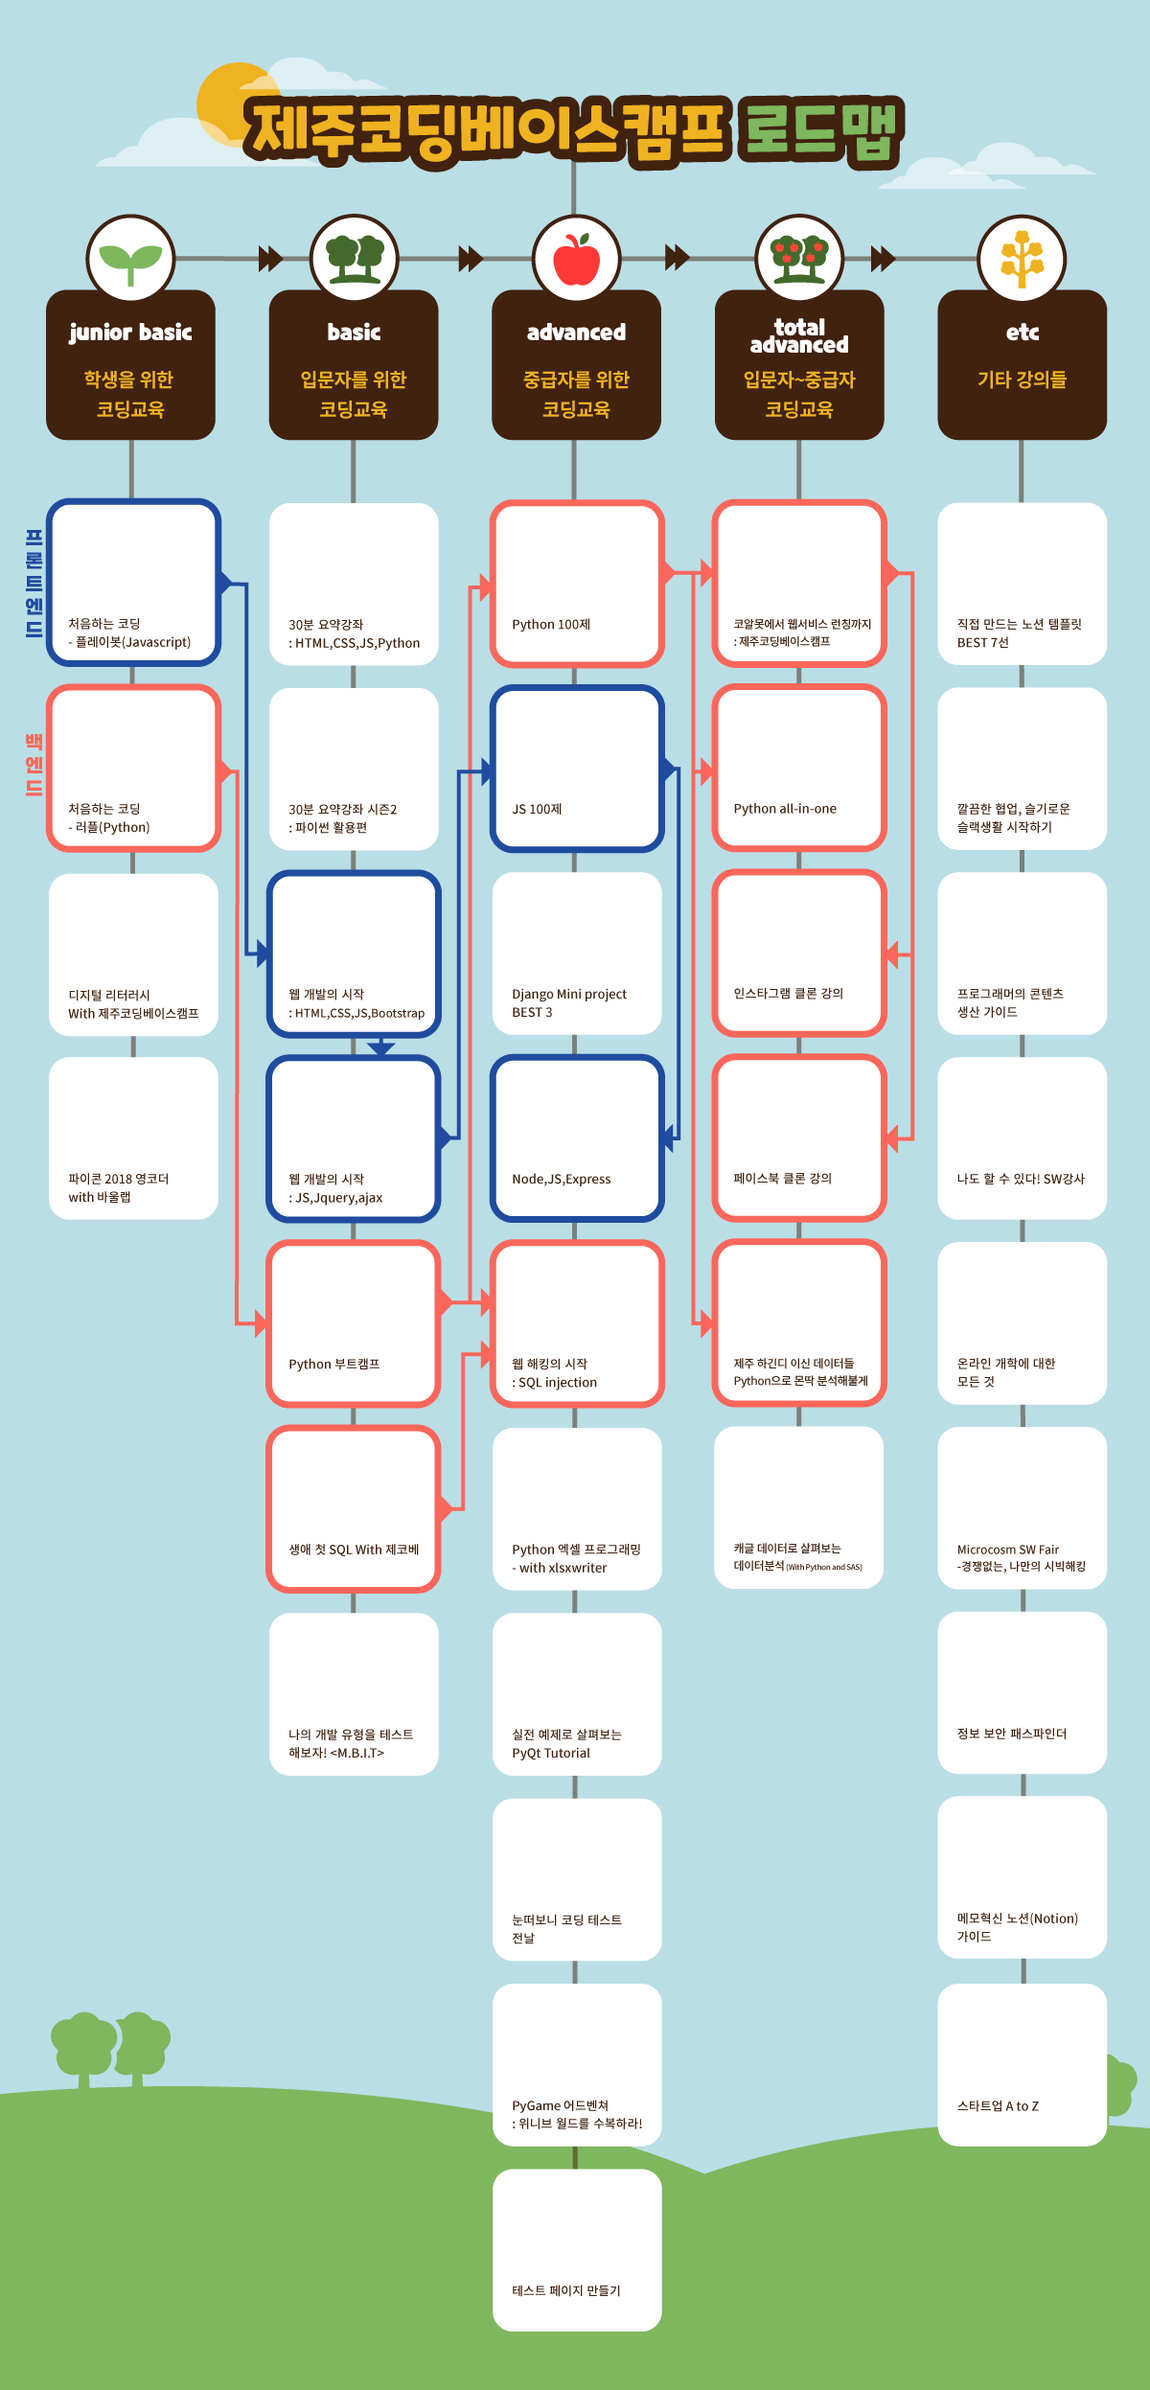
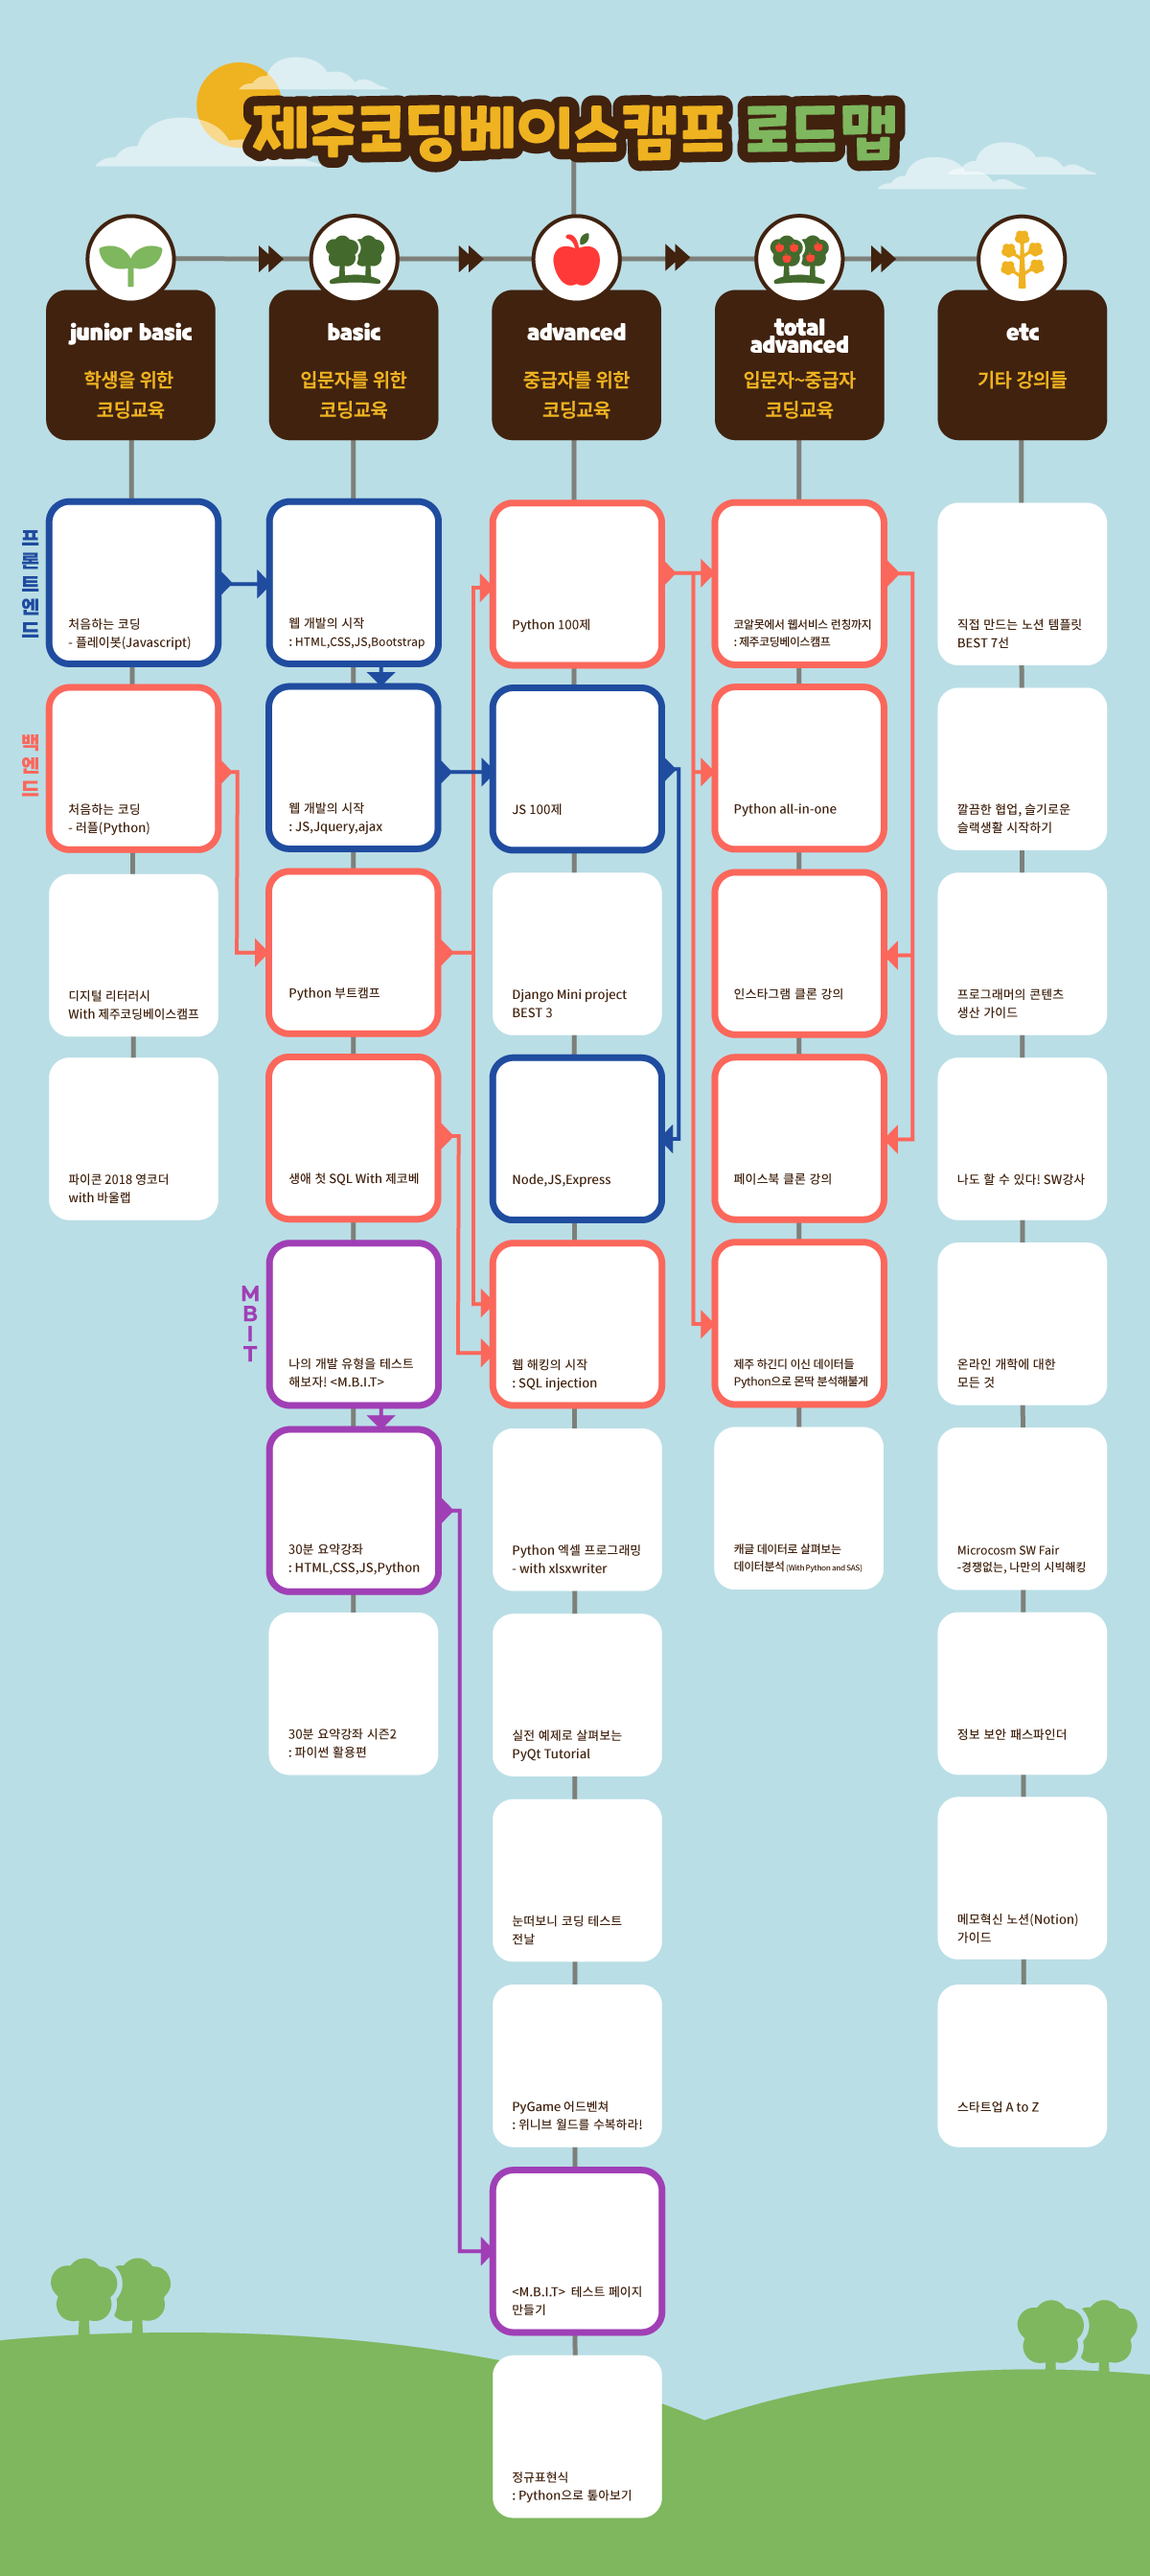
커리큘럼 이미지 수정 등

diff --git a/Tutorial_Homepage/curriculum.html b/Tutorial_Homepage/curriculum.html
@@ -92,12 +92,6 @@
               <!-- basic -->
               <div class="basic">
                 <div class="lec">
-                  <a href="https://www.inflearn.com/course/제주코딩-웹개발-30분요약" target="_blank"><img src="images/lecture/lec04.png" alt="30분요약강좌"/></a>
-                </div>
-                <div class="lec">
-                  <a href="https://www.inflearn.com/course/제주코딩-웹개발-30분요약-시즌2" target="_blank"><img src="images/lecture/lec05.png" alt="30분요약강좌시즌2"/></a>
-                </div>
-                <div class="lec">
                   <a href="https://www.inflearn.com/instructors/170213/courses" target="_blank"><img src="images/lecture/lec06.png" alt="웹개발의시작:html,css,bootstrap"/></a>
                 </div>
                 <div class="lec">
@@ -111,6 +105,13 @@
                 </div>
                 <div class="lec">
                   <a href="https://www.inflearn.com/course/개발-유형-테스트" target="_blank"><img src="images/lecture/lec35.png" alt="나의 개발 유형을 테스트해보자!"/></a>
+                </div>
+                <div class="lec">
+                  <a href="https://www.inflearn.com/course/제주코딩-웹개발-30분요약" target="_blank"><img src="images/lecture/lec04.png" alt="30분요약강좌"/></a>
+                </div>
+                
+                <div class="lec">
+                  <a href="https://www.inflearn.com/course/제주코딩-웹개발-30분요약-시즌2" target="_blank"><img src="images/lecture/lec05.png" alt="30분요약강좌시즌2"/></a>
                 </div>
               </div>
               <!-- advanced -->
@@ -144,6 +145,9 @@
                 </div>
                 <div class="lec">
                   <a href="https://www.inflearn.com/course/mbit-테스트-페이지-웹개발" target="_blank"><img src="images/lecture/lec36.png" alt="MBIT 테스트 페이지 만들기"/></a>
+                </div>
+                <div class="lec">
+                  <a href="https://www.inflearn.com/users/170213/courses" target="_blank"><img src="images/lecture/lec37.png" alt="정규표현식"/></a>
                 </div>
               </div>
               <!-- total advanced -->

diff --git a/Tutorial_Homepage/css/style.css b/Tutorial_Homepage/css/style.css
@@ -125,7 +125,6 @@ section > h2 {
   position: absolute;
 	right: 8%;
 	top: -30px;
-	/* margin-right: -125.5px; */
   -webkit-animation: move 2s;
           animation: move 2s;
   -webkit-transition: ease;
@@ -491,10 +490,6 @@ display: none;
   left: -70px;
   top: 160px;
 }
-.menu__intro:hover .menu__intro img {
-  -webkit-animation-play-state: paused;
-          animation-play-state: paused;
-}
 .menu__intro div:hover {
   -webkit-transform: scale(1.3);
       -ms-transform: scale(1.3);
@@ -518,6 +513,10 @@ display: none;
   top: -121px;
   -webkit-transition: all 0.4s;
           transition: all 0.4s;
+}
+.menu__intro:hover .menu__intro--licat .hand {
+  -webkit-animation-play-state: paused;
+          animation-play-state: paused;
 }
 @-webkit-keyframes licat {
   0% {

diff --git a/Tutorial_Homepage/index.html b/Tutorial_Homepage/index.html
@@ -225,8 +225,8 @@
                 바울랩 오프라인 강좌 공지!
               </h4>
               <p class="post__explanation">
-                2020년도 2학기 모든 오프라인 강좌의 모집은 모두 마감되었습니다.<br>
-                많은 성원 감사드립니다.🙇♂<br><br>
+                사회적 거리두기 격상으로 인해 오프라인 수업을 진행하지 않습니다.<br>
+                감사합니다.<br><br>
 
               </p>
               <a href="https://www.inflearn.com/instructors/170213/courses" target="_blank" class="readmore__btn">
